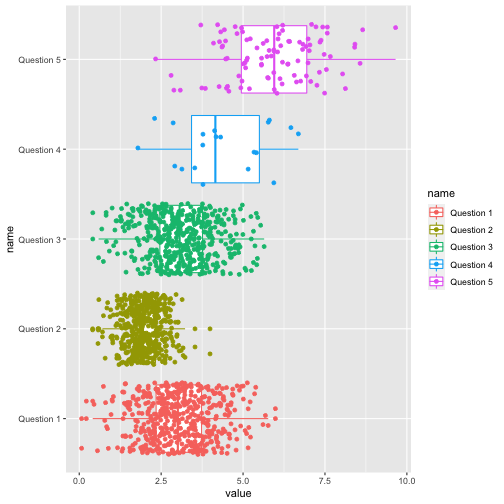
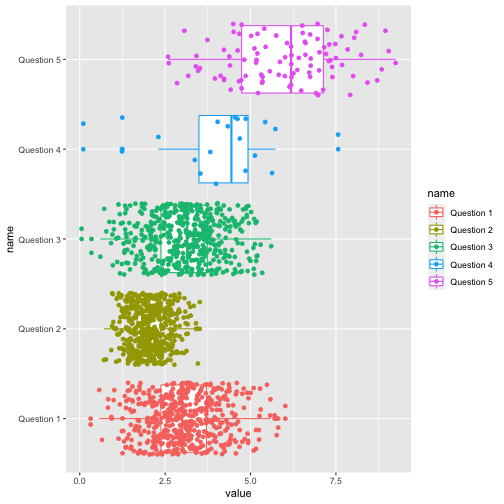
update

diff --git a/slides/presentations-week-5.html b/slides/presentations-week-5.html
@@ -1,10 +1,10 @@
 <!DOCTYPE html>
 <html lang="" xml:lang="">
   <head>
-    <title>HW Week 5 - Introduction to Data Viz</title>
+    <title>Week 5 - Introduction to Data Viz</title>
     <meta charset="utf-8" />
     <meta name="author" content="Joshua Rosenberg, Alex Lishinski" />
-    <meta name="date" content="2021-02-11" />
+    <meta name="date" content="2021-02-18" />
     <script src="libs/header-attrs-2.6/header-attrs.js"></script>
     <link rel="stylesheet" href="theme.css" type="text/css" />
   </head>
@@ -12,9 +12,9 @@
     <textarea id="source">
 class: center, middle, inverse, title-slide
 
-# HW Week 5 - Introduction to Data Viz
+# Week 5 - Introduction to Data Viz
 ### Joshua Rosenberg, Alex Lishinski
-### February 11, 2021
+### February 18, 2021
 
 ---
 
@@ -267,16 +267,16 @@ data
 ## # A tibble: 1,618 x 2
 ##    name       value
 ##    &lt;chr&gt;      &lt;dbl&gt;
-##  1 Question 1 4.63 
-##  2 Question 1 4.21 
-##  3 Question 1 1.90 
-##  4 Question 1 2.66 
-##  5 Question 1 2.72 
-##  6 Question 1 3.66 
-##  7 Question 1 3.47 
-##  8 Question 1 0.778
-##  9 Question 1 3.74 
-## 10 Question 1 3.42 
+##  1 Question 1  3.80
+##  2 Question 1  3.49
+##  3 Question 1  4.39
+##  4 Question 1  3.97
+##  5 Question 1  4.57
+##  6 Question 1  3.11
+##  7 Question 1  1.75
+##  8 Question 1  2.80
+##  9 Question 1  2.79
+## 10 Question 1  3.56
 ## # … with 1,608 more rows
 ```
 
